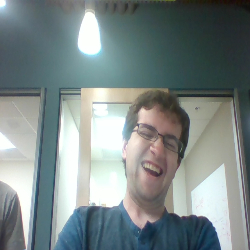
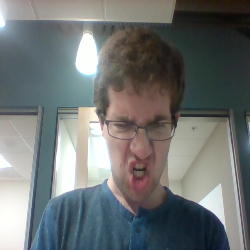
Final

diff --git a/public/js/index.js b/public/js/index.js
@@ -202,9 +202,9 @@ function mapToMusic(emotion) {
                        "grunge", "hip-hop", "house", "jazz", "opera", "party", 
                        "punk", "rock", "romance", "sad", "work-out"];
     var happy_genre = ['alternative','club','disco','edm','funk'];
-    var sad_genre = ['blues','chill','emo','grunge','sad'];
+    var sad_genre = ['blues','rainy-day','emo','grunge','sad'];
     var surprise_genre = ['club','opera','party','romance'];
-    var angry_genre = ['dubstep','death-metal','hip-hop','punk','work-out'];
+    var angry_genre = ['dubstep','death-metal','hip-hop','work-out'];
     var neutral_genre = ['chill','classical','rock','jazz'];
 
     var options = {}
@@ -224,9 +224,9 @@ function mapToMusic(emotion) {
             $('#display-text').html("It's okay to cry...");
             options.target_energy = 0.3;
             options.target_valence = 0.2;
-            options.target_danceability = 0.2;
+            options.target_danceability = 0.1;
             options.target_loudness = -20;
-            options.target_tempo = 80;
+            options.target_tempo = 70;
             options.seed_genres = sad_genre.join(',');
             break;
         case 'surprise':
@@ -241,9 +241,9 @@ function mapToMusic(emotion) {
         case 'angry':
             $('#display-text').html("Get angry!");
             options.target_energy = 0.8;
-            options.target_valence = 0.5;
+            options.target_valence = 0.3;
             options.target_danceability = 0.8;
-            options.target_loudness = -60;
+            options.target_loudness = -70;
             options.target_tempo = 140;
             options.seed_genres = angry_genre.join(',');
             break;
